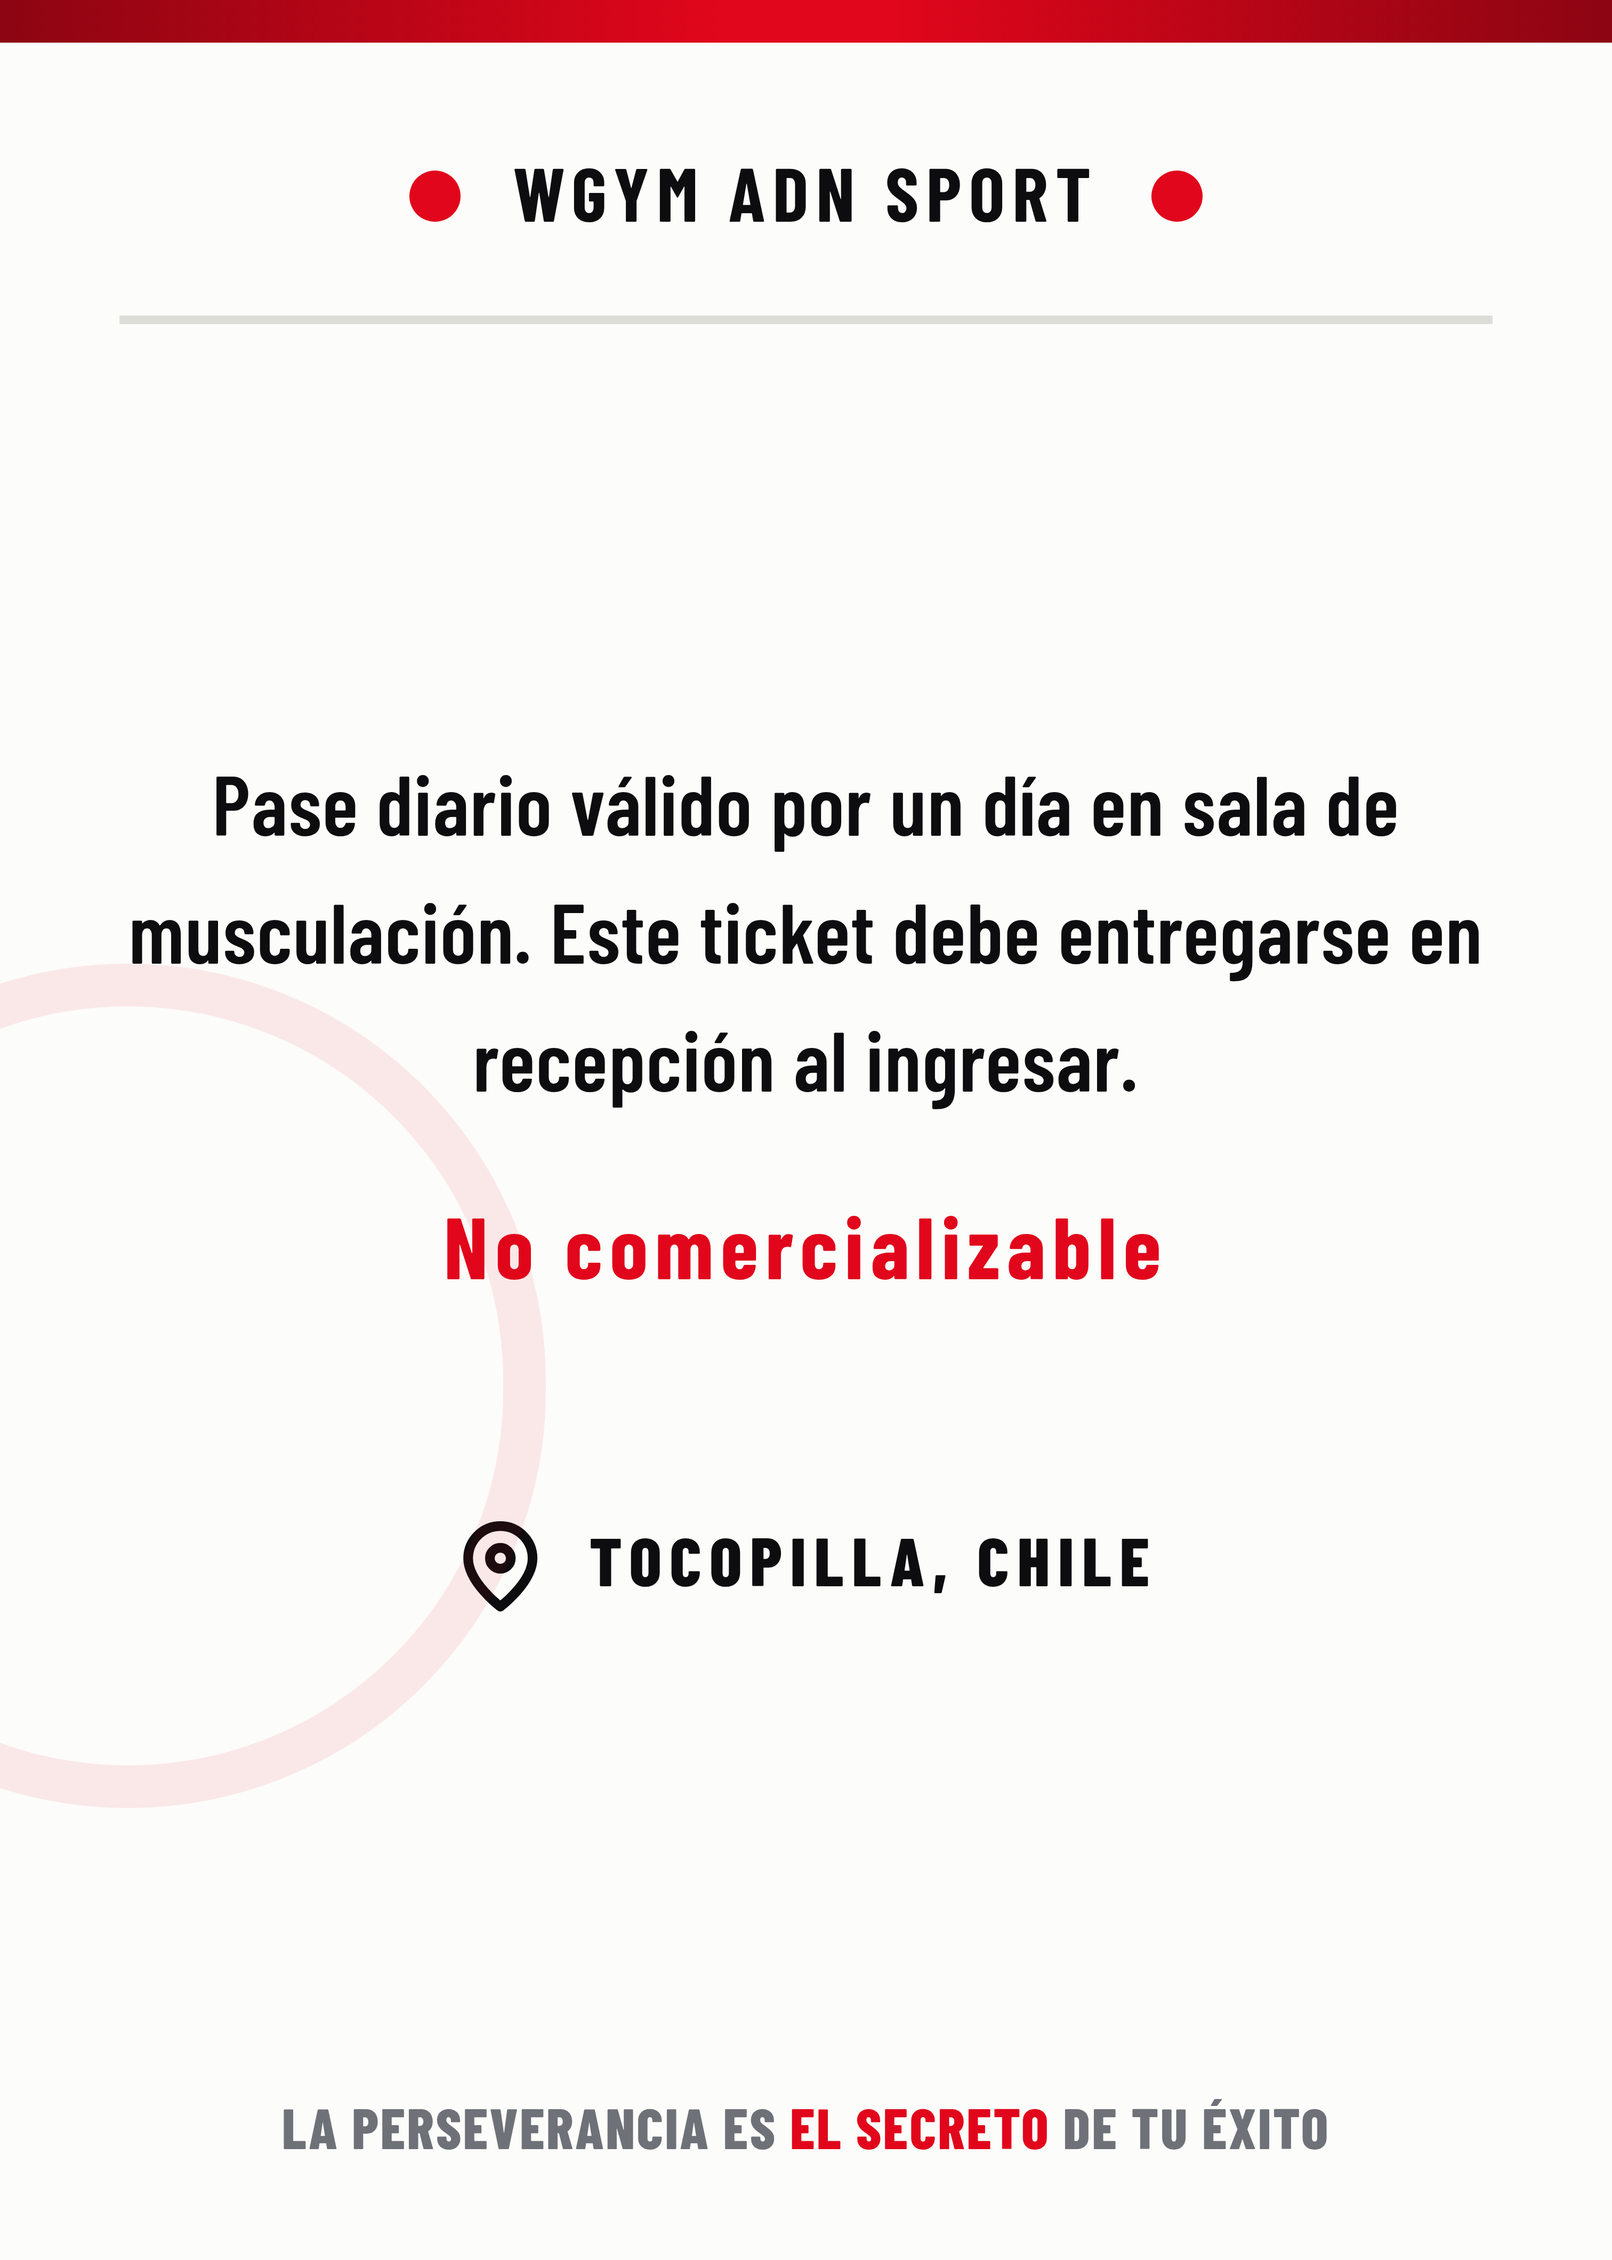
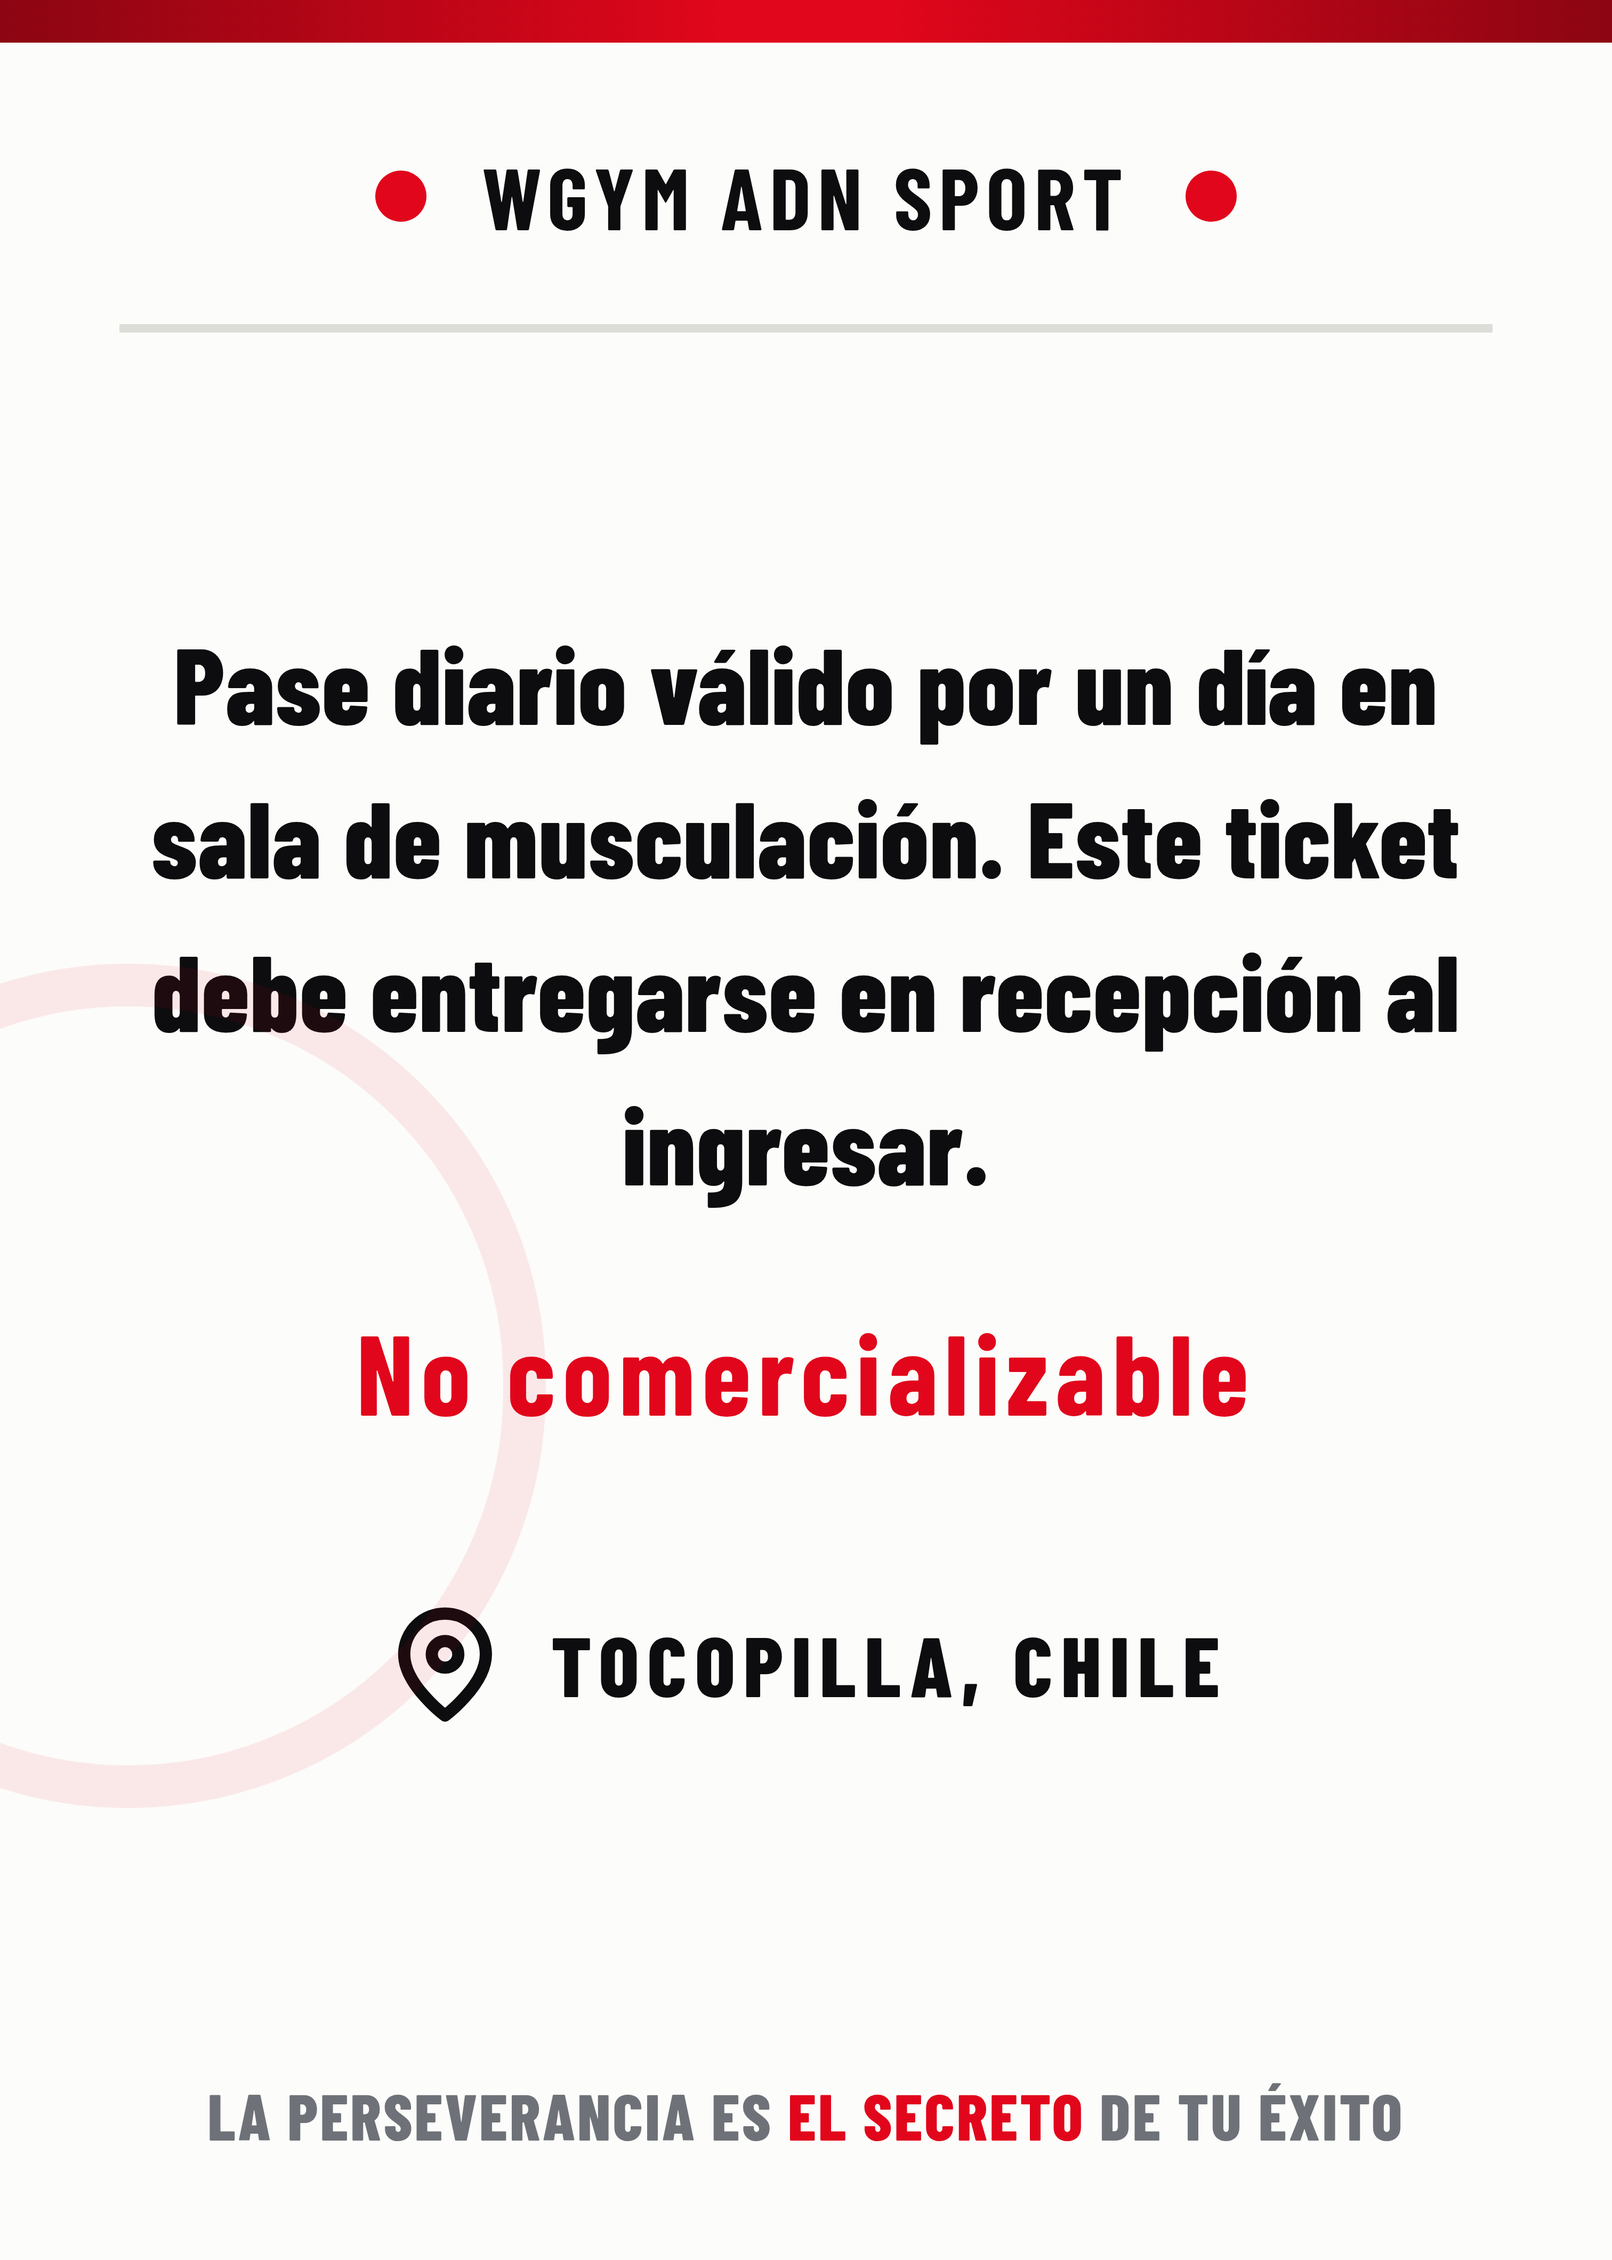
Agrandar la letra de la leyenda del pase diario (reverso)
Claude-Session: https://claude.ai/code/session_019i3RaDFGQmft2ZfWrR5f8W

diff --git a/pase-diario-reverso.html b/pase-diario-reverso.html
@@ -72,9 +72,9 @@
   }
   .brandline .name{
     font-weight:800;
-    letter-spacing:.1em;
+    letter-spacing:.08em;
     text-transform:uppercase;
-    font-size:2.35mm;
+    font-size:2.7mm;
     color:var(--ink);
     white-space:nowrap;
   }
@@ -93,38 +93,38 @@
     flex-direction:column;
     align-items:center;
     justify-content:center;
-    gap:6mm;
+    gap:4.5mm;
   }
 
   .legend{
     text-align:center;
-    font-weight:600;
-    letter-spacing:.01em;
-    font-size:2.6mm;
-    line-height:1.55;
+    font-weight:700;
+    letter-spacing:.005em;
+    font-size:3.35mm;
+    line-height:1.42;
     color:var(--ink);
   }
   .legend b{
     display:block;
-    margin-top:1.8mm;
+    margin-top:2.1mm;
     font-weight:800;
-    letter-spacing:.08em;
+    letter-spacing:.06em;
     color:var(--red);
-    font-size:2.7mm;
+    font-size:3.5mm;
   }
 
   .loc-row{
     display:flex;
     align-items:center;
     justify-content:center;
-    gap:1.2mm;
+    gap:1.4mm;
   }
-  .loc-row svg{ width:3mm; height:3mm; flex-shrink:0; }
+  .loc-row svg{ width:3.8mm; height:3.8mm; flex-shrink:0; }
   .loc-row span{
     font-weight:700;
-    letter-spacing:.12em;
+    letter-spacing:.1em;
     text-transform:uppercase;
-    font-size:2.1mm;
+    font-size:2.6mm;
     color:var(--ink);
   }
 
@@ -134,7 +134,7 @@
     font-weight:700;
     letter-spacing:.03em;
     text-transform:uppercase;
-    font-size:1.75mm;
+    font-size:2mm;
     color:var(--steel);
   }
   .tagline em{ color:var(--red); font-style:normal; }
